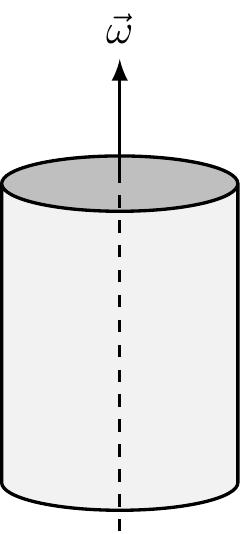
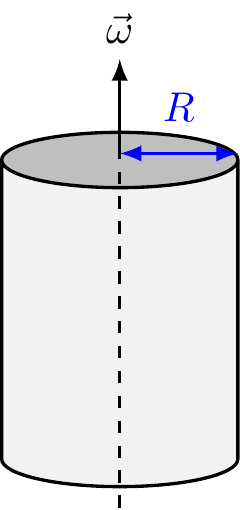
adding radius

diff --git a/mechanics/rotating-zylinder/rotating-zylinder.tex b/mechanics/rotating-zylinder/rotating-zylinder.tex
@@ -10,6 +10,8 @@
   \node (Z) at (0,0) [thick, cylinder, aspect=2, shape border rotate=90, draw, minimum height=3cm, minimum width=2cm, cylinder body fill=gray!20, cylinder uses custom fill, cylinder end fill=gray] {};
   % rotation axis
   \draw[dashed,thick] (0,-1.5) -- +(0,3);
-  \draw[->,thick] (0,1.5) -- +(0,1) node[above] {$\vec{\omega}$};
+  \draw[->,thick] (0,1.5) -- +(0,0.8) node[above] {$\vec{\omega}$};
+  % radius
+  \draw[<->,thick,blue] (0,1.5) -- node[above,yshift=0.4em] {$R$} +(1,0);
 \end{tikzpicture}
 \end{document}

diff --git a/mechanics/rotating-zylinder/rotating-zylinder_inverted.tex b/mechanics/rotating-zylinder/rotating-zylinder_inverted.tex
@@ -19,6 +19,8 @@
   \node (Z) at (0,0) [thick, cylinder, aspect=2, shape border rotate=90, draw, minimum height=3cm, minimum width=2cm, cylinder body fill=gray!60, cylinder uses custom fill, cylinder end fill=gray] {};
   % rotation axis
   \draw[dashed,thick] (0,-1.5) -- +(0,3);
-  \draw[->,thick] (0,1.5) -- +(0,1) node[above] {$\vec{\omega}$};
+  \draw[->,thick] (0,1.5) -- +(0,0.8) node[above] {$\vec{\omega}$};
+  % radius
+  \draw[<->,thick,blue] (0,1.5) -- node[above,yshift=0.4em] {$R$} +(1,0);
 \end{tikzpicture}
 \end{document}

diff --git a/mechanics.md b/mechanics.md
@@ -918,7 +918,9 @@
   \node (Z) at (0,0) [thick, cylinder, aspect=2, shape border rotate=90, draw, minimum height=3cm, minimum width=2cm, cylinder body fill=gray!20, cylinder uses custom fill, cylinder end fill=gray] {};
   % rotation axis
   \draw[dashed,thick] (0,-1.5) -- +(0,3);
-  \draw[->,thick] (0,1.5) -- +(0,1) node[above] {$\vec{\omega}$};
+  \draw[->,thick] (0,1.5) -- +(0,0.8) node[above] {$\vec{\omega}$};
+  % radius
+  \draw[<->,thick,blue] (0,1.5) -- node[above,yshift=0.4em] {$R$} +(1,0);
 \end{tikzpicture}
 \end{document}
 ~~~
@@ -2750,7 +2752,9 @@
   \node (Z) at (0,0) [thick, cylinder, aspect=2, shape border rotate=90, draw, minimum height=3cm, minimum width=2cm, cylinder body fill=gray!60, cylinder uses custom fill, cylinder end fill=gray] {};
   % rotation axis
   \draw[dashed,thick] (0,-1.5) -- +(0,3);
-  \draw[->,thick] (0,1.5) -- +(0,1) node[above] {$\vec{\omega}$};
+  \draw[->,thick] (0,1.5) -- +(0,0.8) node[above] {$\vec{\omega}$};
+  % radius
+  \draw[<->,thick,blue] (0,1.5) -- node[above,yshift=0.4em] {$R$} +(1,0);
 \end{tikzpicture}
 \end{document}
 ~~~
